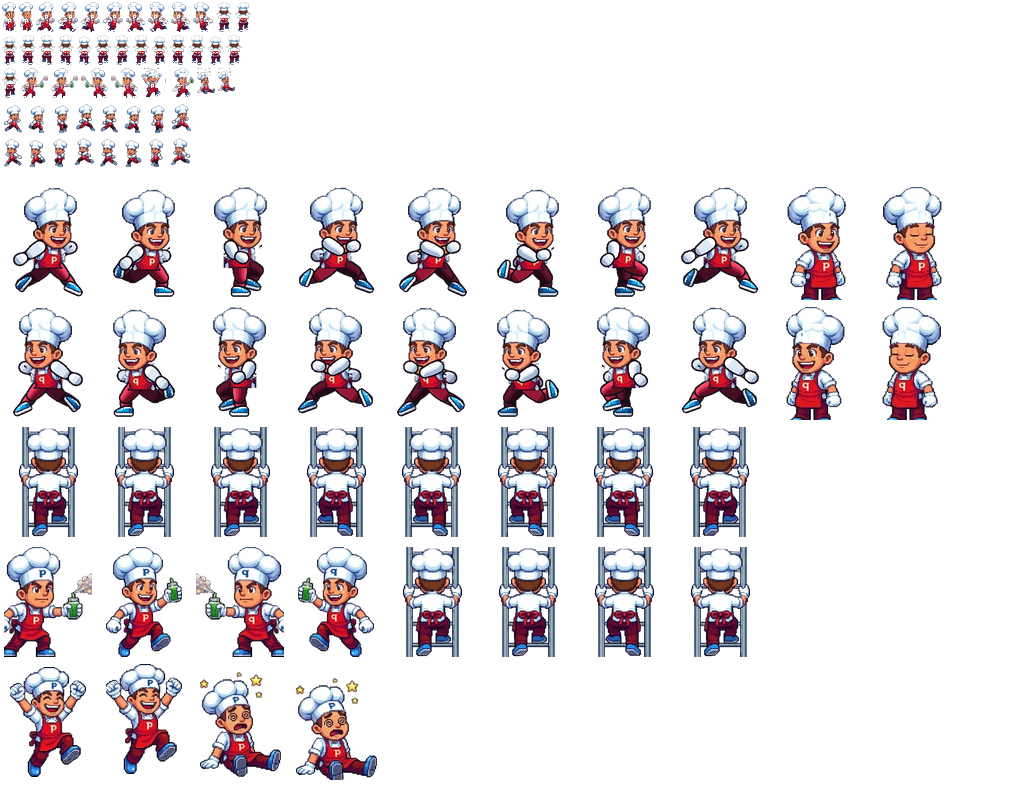
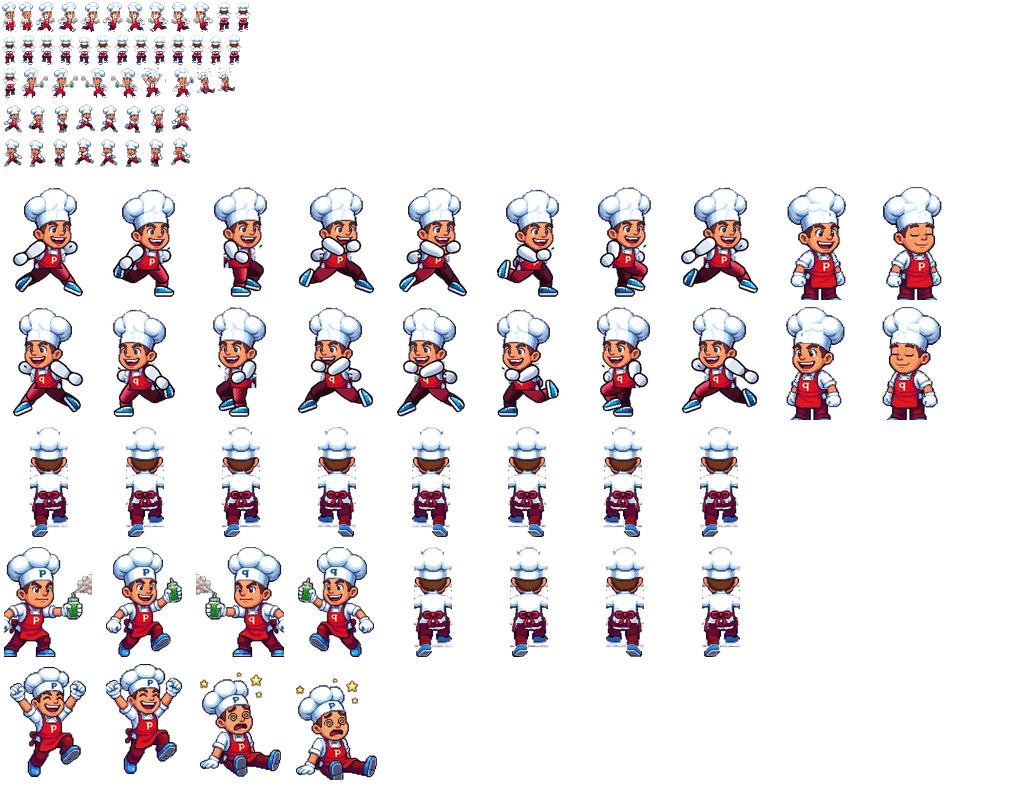
fix(sprites): limpiar completamente los sprites de escalada eliminando los rieles y peldaños dibujados en el personaje

Changed region(s): [[0.0, 0.5312, 0.75, 0.8438]]

diff --git a/index.html b/index.html
@@ -189,20 +189,20 @@
   </div>
 
   <!-- Game Scripts -->
-  <script src="js/chef_atlas.js?v=101"></script>
-  <script src="js/enemies_atlas.js?v=101"></script>
-  <script src="js/items_atlas.js?v=101"></script>
-  <script src="js/kiloburner_atlas.js?v=101"></script>
-  <script src="js/audio.js?v=101"></script>
-  <script src="js/sprites.js?v=101"></script>
-  <script src="js/kiloburner.js?v=101"></script>
-  <script src="js/map.js?v=101"></script>
-  <script src="js/burger.js?v=101"></script>
-  <script src="js/entities.js?v=101"></script>
-  <script src="js/stage_themes.js?v=101"></script>
-  <script src="js/controls.js?v=101"></script>
-  <script src="js/godot_gfx_engine.js?v=101"></script>
-  <script src="js/game.js?v=101"></script>
+  <script src="js/chef_atlas.js?v=102"></script>
+  <script src="js/enemies_atlas.js?v=102"></script>
+  <script src="js/items_atlas.js?v=102"></script>
+  <script src="js/kiloburner_atlas.js?v=102"></script>
+  <script src="js/audio.js?v=102"></script>
+  <script src="js/sprites.js?v=102"></script>
+  <script src="js/kiloburner.js?v=102"></script>
+  <script src="js/map.js?v=102"></script>
+  <script src="js/burger.js?v=102"></script>
+  <script src="js/entities.js?v=102"></script>
+  <script src="js/stage_themes.js?v=102"></script>
+  <script src="js/controls.js?v=102"></script>
+  <script src="js/godot_gfx_engine.js?v=102"></script>
+  <script src="js/game.js?v=102"></script>
 
   <!-- Service Worker Registration for Offline Play & PWA -->
   <script>

diff --git a/js/sprites.js b/js/sprites.js
@@ -37,13 +37,13 @@ class SpriteManager {
 
   initAtlas() {
     this.atlasImg = new Image();
-    this.atlasImg.src = 'assets/chef_atlas.png?v=99';
+    this.atlasImg.src = 'assets/chef_atlas.png?v=102';
     this.atlasLoaded = false;
     this.atlasImg.onload = () => {
       this.atlasLoaded = true;
     };
     this.atlasImg.onerror = () => {
-      this.atlasImg.src = 'assets/peter_atlas.png?v=99';
+      this.atlasImg.src = 'assets/peter_atlas.png?v=102';
     };
   }
 

diff --git a/sw.js b/sw.js
@@ -1,4 +1,4 @@
-const CACHE_NAME = 'burgerpanic-mobile-v101';
+const CACHE_NAME = 'burgerpanic-mobile-v102';
 const ASSETS = [
   './',
   './index.html',
